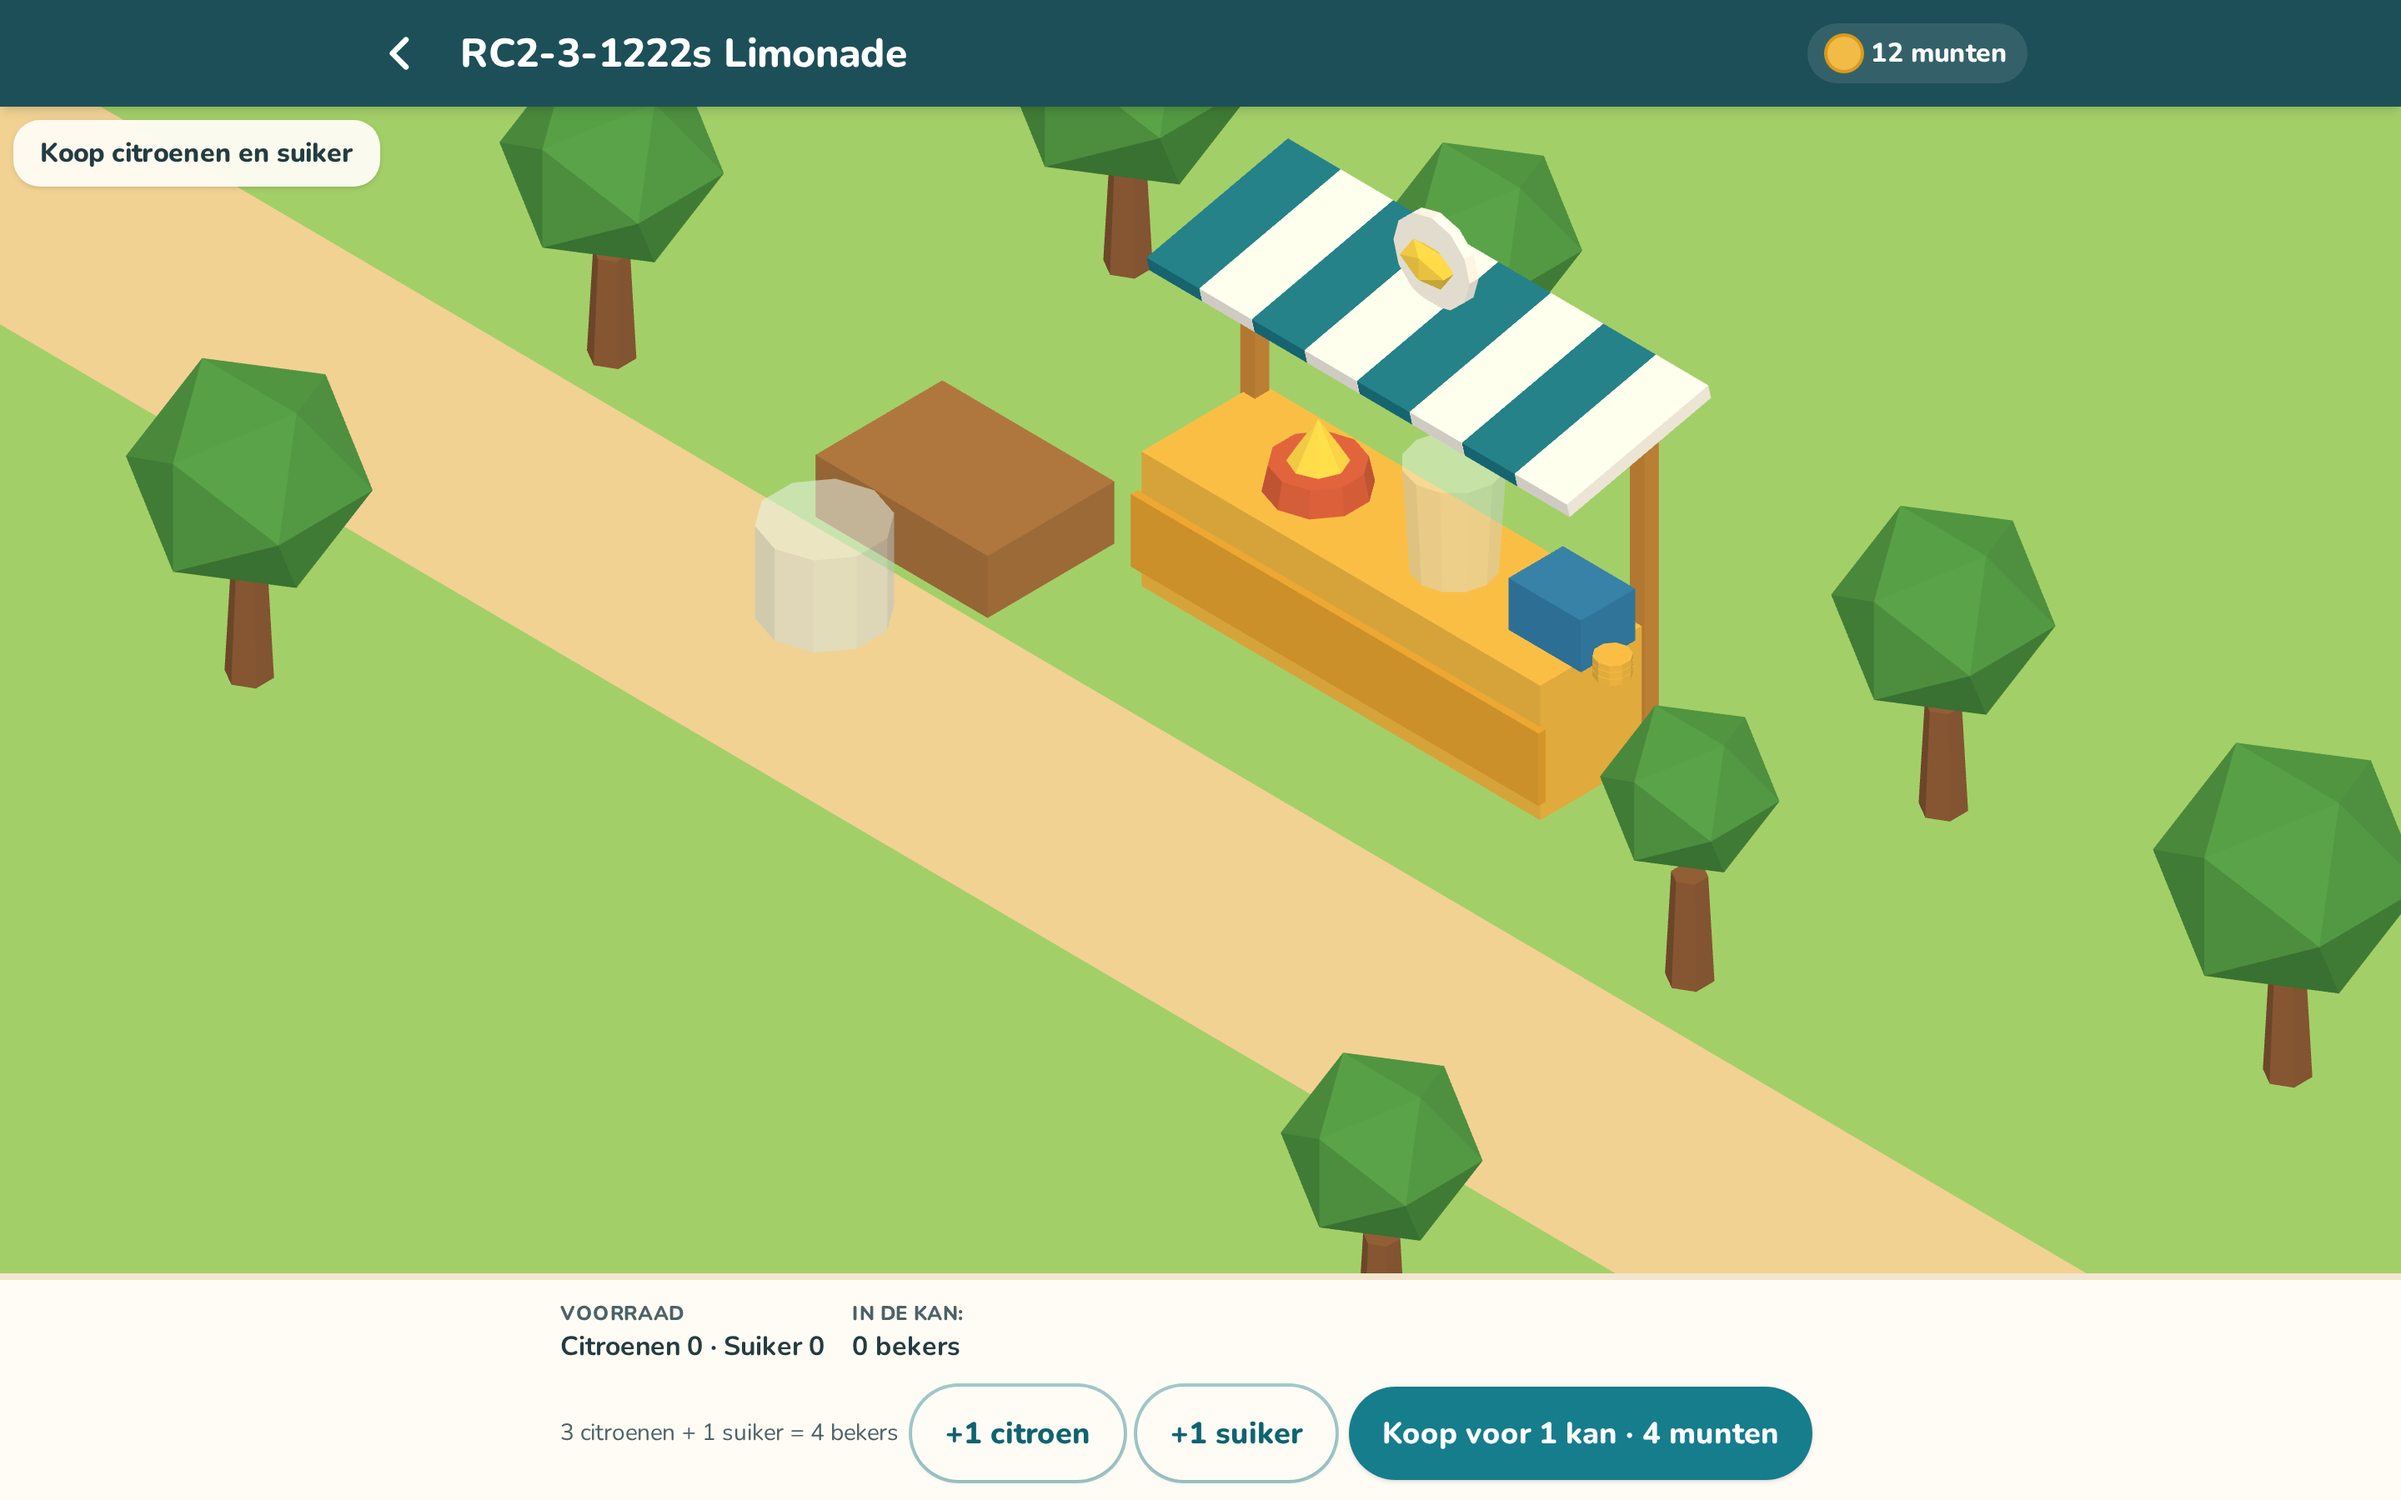
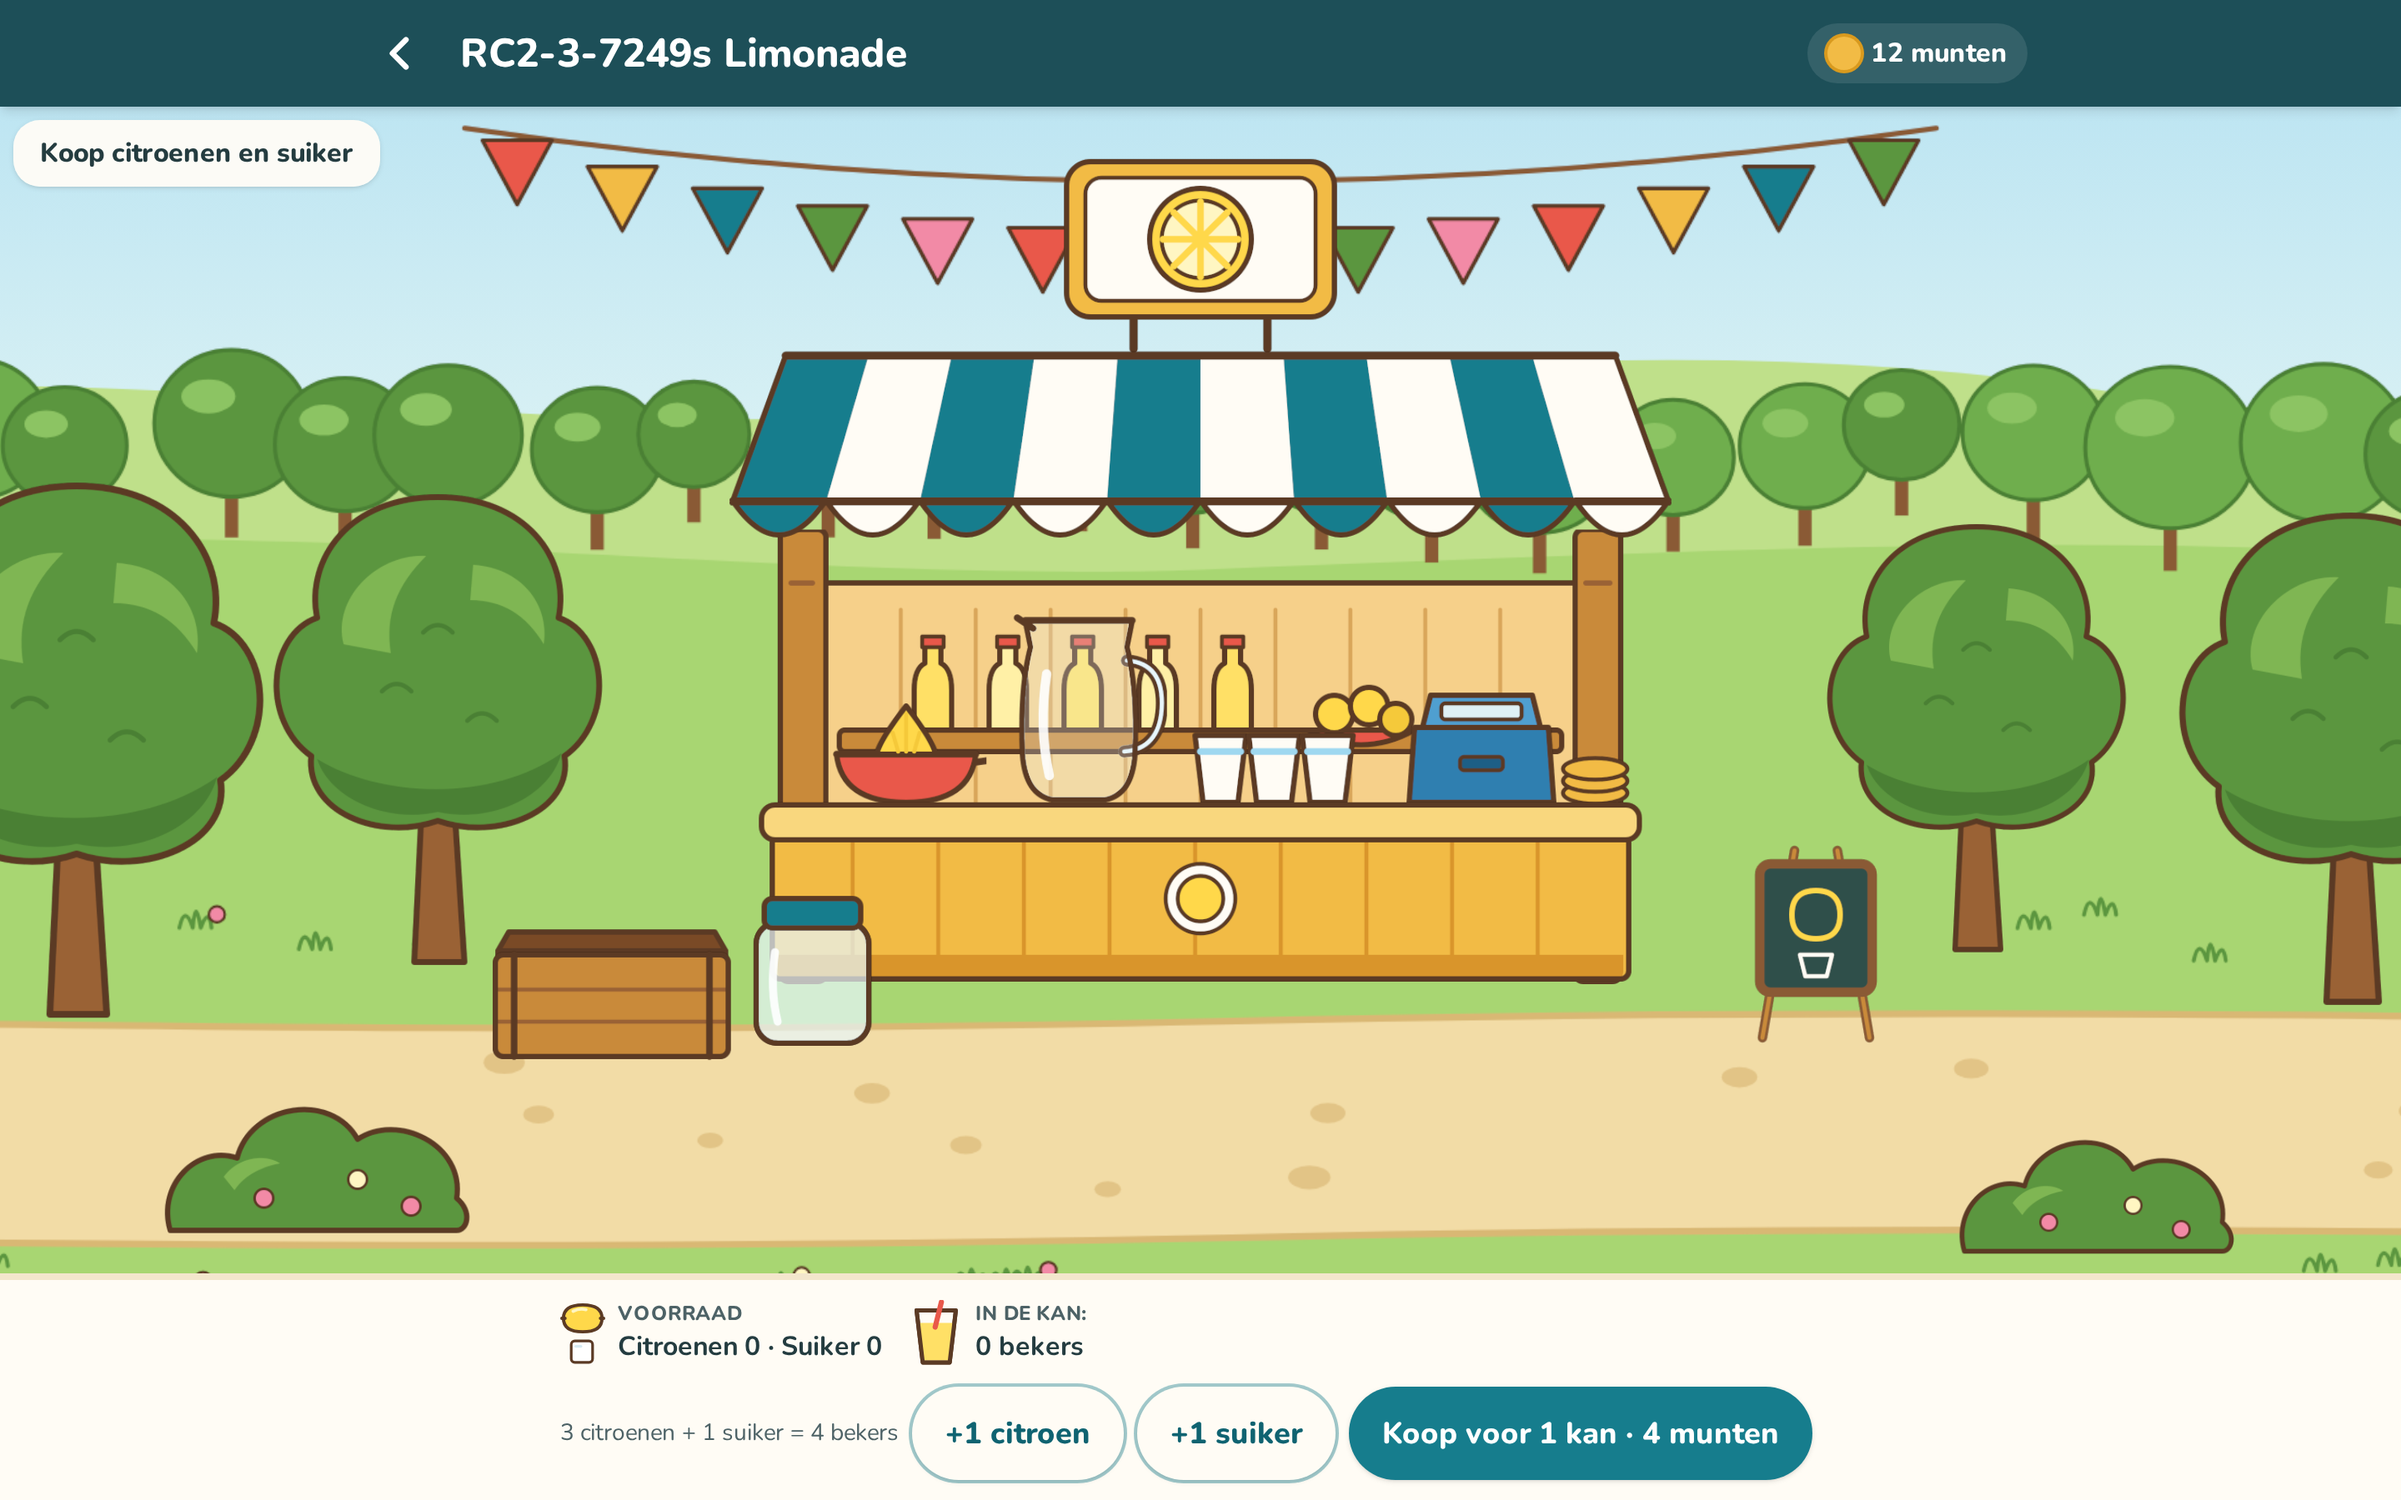
docs(release): 0.2 RC 2 notes and screenshots

diff --git a/docs/releases/0.2/rc-2.md b/docs/releases/0.2/rc-2.md
@@ -1,0 +1,92 @@
+# Release 0.2 limonade-ronde — RC 2
+
+| | |
+|---|---|
+| Release | 0.2 limonadekraam: eerste ronde |
+| RC | 2 |
+| Releasebranch | `release/0.2-limonade-ronde` |
+| Geteste code-commit | `b085e49` (deze notitie en de screenshots staan in de commit erna; geen codewijziging) |
+| Preview-URL | http://127.0.0.1:8802 |
+| Database | `maakrijk_preview` (Postgres 16, container `maakrijk-db-1`, poort 5450) |
+| Frontend | preview-build `apps/web/.output-preview/public`, commit `b085e49`, contract 1 |
+| Backend | `maakrijk-api` commit `b085e49`, contract 1, migratie `20261105000002` (pakketversie meldt nog 0.1.0) |
+| Datum | 2026-11-05 |
+
+Mapping: `http://127.0.0.1:8802` → API op 8802 (`scripts/preview-api.sh`) → `maakrijk_preview` → commit `b085e49`. Controleer op http://127.0.0.1:8802/diagnose.
+
+## Wat is er veranderd sinds RC 1
+
+Feedback: `feedback-rc-1.md`.
+
+| Feedback | Wat er gedaan is | Branch |
+|---|---|---|
+| F1 Art style past niet bij de designs | De limonadewereld is nu een geïllustreerd vooraanzicht zoals het design "Luca's Limonade": hemel met wolken en vlaggetjes, heuvels met bomen, kraam met gestreepte luifel en citroenbord, kan, bekers, kassa, kist, suikerpot, krijtbord en getekende kinderen als klanten. Bruine contouren en de kleuren uit `01` §5. Een bediend kind loopt weg met een beker in de hand, een munt springt naar de kassa. Het paneel toont citroen-, suiker- en bekericoon uit dezelfde art. | `fix/0.2-art-stijl` |
+| F2 Speler aanpassen | Akkoord, niets gewijzigd | — |
+| F3 Instellingen | Akkoord, niets gewijzigd | — |
+| Taalbestanden (verzoek) | Al in RC 1-commit `228d0b6`: `locales/nl/common.ts` + `locales/nl/games/lemonade.ts` | `feature/0.2-taalbestanden` |
+
+Techniek (besluit D9-update): Three.js blijft. De gedeelde stage kreeg een `front`-projectie (vooraanzicht). Op hoge schermen staat de kraam op de onderrand en vult de lucht de rest. Art staat als SVG in `apps/web/public/art/lemonade/` en wordt gegenereerd door `scripts/art/lemonade.mjs`. Elke afbeelding is te vervangen door een geschilderde PNG via `LEMONADE_ART` in `world.ts`, zonder verdere code (zie de README in die map). Er zijn geen wijzigingen aan spelregels, server of database.
+
+## Uitgevoerde tests (op `b085e49`)
+
+| Test | Commando | Resultaat |
+|---|---|---|
+| Rust unit + API + conformance (`maakrijk_test`) | `cargo test` | 57 geslaagd, 0 mislukt |
+| Clippy | `cargo clippy --all-targets -- -D warnings` | 0 waarschuwingen |
+| Frontend unit | `npx vitest run` | 25 geslaagd (nieuw: vooraanzicht passend maken, op onderrand zetten, slepen, iso ongewijzigd) |
+| Typecheck | `npx nuxt typecheck` | ok |
+| Productiebuild | `scripts/build-web.sh e2e` en `preview` | ok |
+| Playwright Chromium | `npm run e2e` | 26 geslaagd |
+| Playwright WebKit | — | **Niet uitgevoerd**: systeembibliotheken ontbreken (`sudo npx playwright install-deps webkit` nodig) |
+| Scenario door de echte UI | Playwright-script tegen 8802, 6 runs (telefoon, liggend, tablet, desktop, grote tekst, minder beweging) | elke run 12 → 8 munten, Citroenen 3 · Suiker 1; refresh tijdens maken zonder tweede kan; dubbel tikken = één betaling; eind 16; overzicht 8 / 4 / 4 |
+
+## Visuele review
+
+**Niet onafhankelijk**: de review-agent kon niet starten, omdat de context-mode-hook de aanroep wijzigt en auto mode die dan niet kan controleren. De review is gedaan door de bouwende agent.
+
+| # | Bevinding | Ernst | Screenshot |
+|---|---|---|---|
+| V1 | Stijl volgt het limonadedesign: vooraanzicht, luifel, bord, vlaggetjes, kinderen | ok | `desktop-3-klant.png`, `desktop-5-bedienen.png` |
+| V2 | Wereld en "Geef een beker" samen zichtbaar op telefoon portrait en liggend | ok | `telefoon-3-klant.png`, `telefoon-liggend-3-klant.png` |
+| V3 | Tablet en telefoon portrait: bovenste helft is lucht; de kraam is kleiner dan in het design | minor | `tablet-1-start.png` |
+| V4 | Vector-art is strakker en vlakker dan de geschilderde designs (geen penseeltextuur) | info | alle |
+| V5 | Grote tekst: "Suiker 0" en "In de kan:" breken af naar een tweede regel | minor | `telefoon-grote-tekst-3-klant.png` |
+| V6 | Het krijtbord toont een vage citroen- en bekertekening | nit | `desktop-3-klant.png` |
+| V7 | De oude RC 1-bevindingen V4–V6 (stapelende knoppen, leeg gras, suikerpot) zijn opgelost of vervallen door de nieuwe wereld, behalve het stapelen bij grote tekst | — | — |
+
+Beperkingen: alleen Chromium met software-WebGL in WSL; geen echte telefoon of tablet; geen audio.
+
+## Screenshots
+
+`docs/releases/0.2/screenshots/`: `<viewport>-<stap>.png` voor `telefoon`, `telefoon-liggend`, `tablet`, `desktop`, `telefoon-grote-tekst` en `telefoon-minder-beweging`, met de stappen `1-start`, `2-maken`, `3-klant` en `4-overzicht`. Daarnaast `desktop-5-bedienen.png` (beker in de hand, munt naar de kassa). De RC 1-screenshots staan in commit `43df9f2`.
+
+## Bekende beperkingen
+
+- WebKit-tests niet gedraaid: acceptatiecriterium "Playwright groen in WebKit" is nog **open**.
+- `/api/version` meldt pakketversie `0.1.0`.
+- `maakrijk_dev` is nog **niet** gemigreerd; dat gebeurt pas na goedkeuring en jouw aparte toestemming.
+
+## Migraties
+
+Geen nieuwe sinds RC 1 (`20261105000002`, alleen op `maakrijk_test` en `maakrijk_preview`).
+
+## Handmatige testlijst
+
+Op http://127.0.0.1:8802 met een **nieuwe** speler "Limo-test-2". Elke stap verandert alleen de gegevens van die speler in `maakrijk_preview`.
+
+| # | Stap | Verwacht |
+|---|---|---|
+| 1 | Limo-test-2 → Limonade → Spelen | Kraam in vooraanzicht zoals het design; 12 munten; kist en suikerpot leeg |
+| 2 | "Koop voor 1 kan · 4 munten" | 8 munten; 3 citroenen in de kist, 1 suikerklontje in de pot |
+| 3 | "Maak limonade", ververs meteen | Pers wiebelt (niet bij Minder beweging); na ~3 s is de kan gevuld en staat er "4 bekers"; geen tweede kan |
+| 4 | "Open de kraam" | Kinderen lopen van rechts naar de kraam en gaan in de rij staan |
+| 5 | Twee keer snel op "Geef een beker" | +2 munten (10); het kind loopt met een beker weg; een munt springt naar de kassa; de kan zakt |
+| 6 | Tweede tabblad, daar een klant bedienen | Na verversen hetzelfde saldo in beide (12) |
+| 7 | Rest bedienen | 16 munten; "Ronde klaar!" 8 / 4 / 4 |
+| 8 | Draai telefoon / venster 844×390 | Wereld en "Geef een beker" tegelijk zichtbaar |
+| 9 | Slepen en knijpen/scrollen in de wereld, daarna "Alles bekijken" | Beeld schuift en zoomt binnen de grenzen; "Alles bekijken" zet het terug |
+| 10 | Vergelijk met `docs/design/f4b89fd1….png` (middenboven) | Zelfde opbouw en sfeer; noem wat nog anders moet |
+
+## Feedback koppelen
+
+Noem het stapnummer of de bevindingcode (bijv. "V3"), plus: bug, visueel, onduidelijk of nieuwe scope. Over de art: noem het object (bijv. "kinderen", "luifel", "lucht"). Elk object is los aan te passen of te vervangen door een eigen plaatje.
